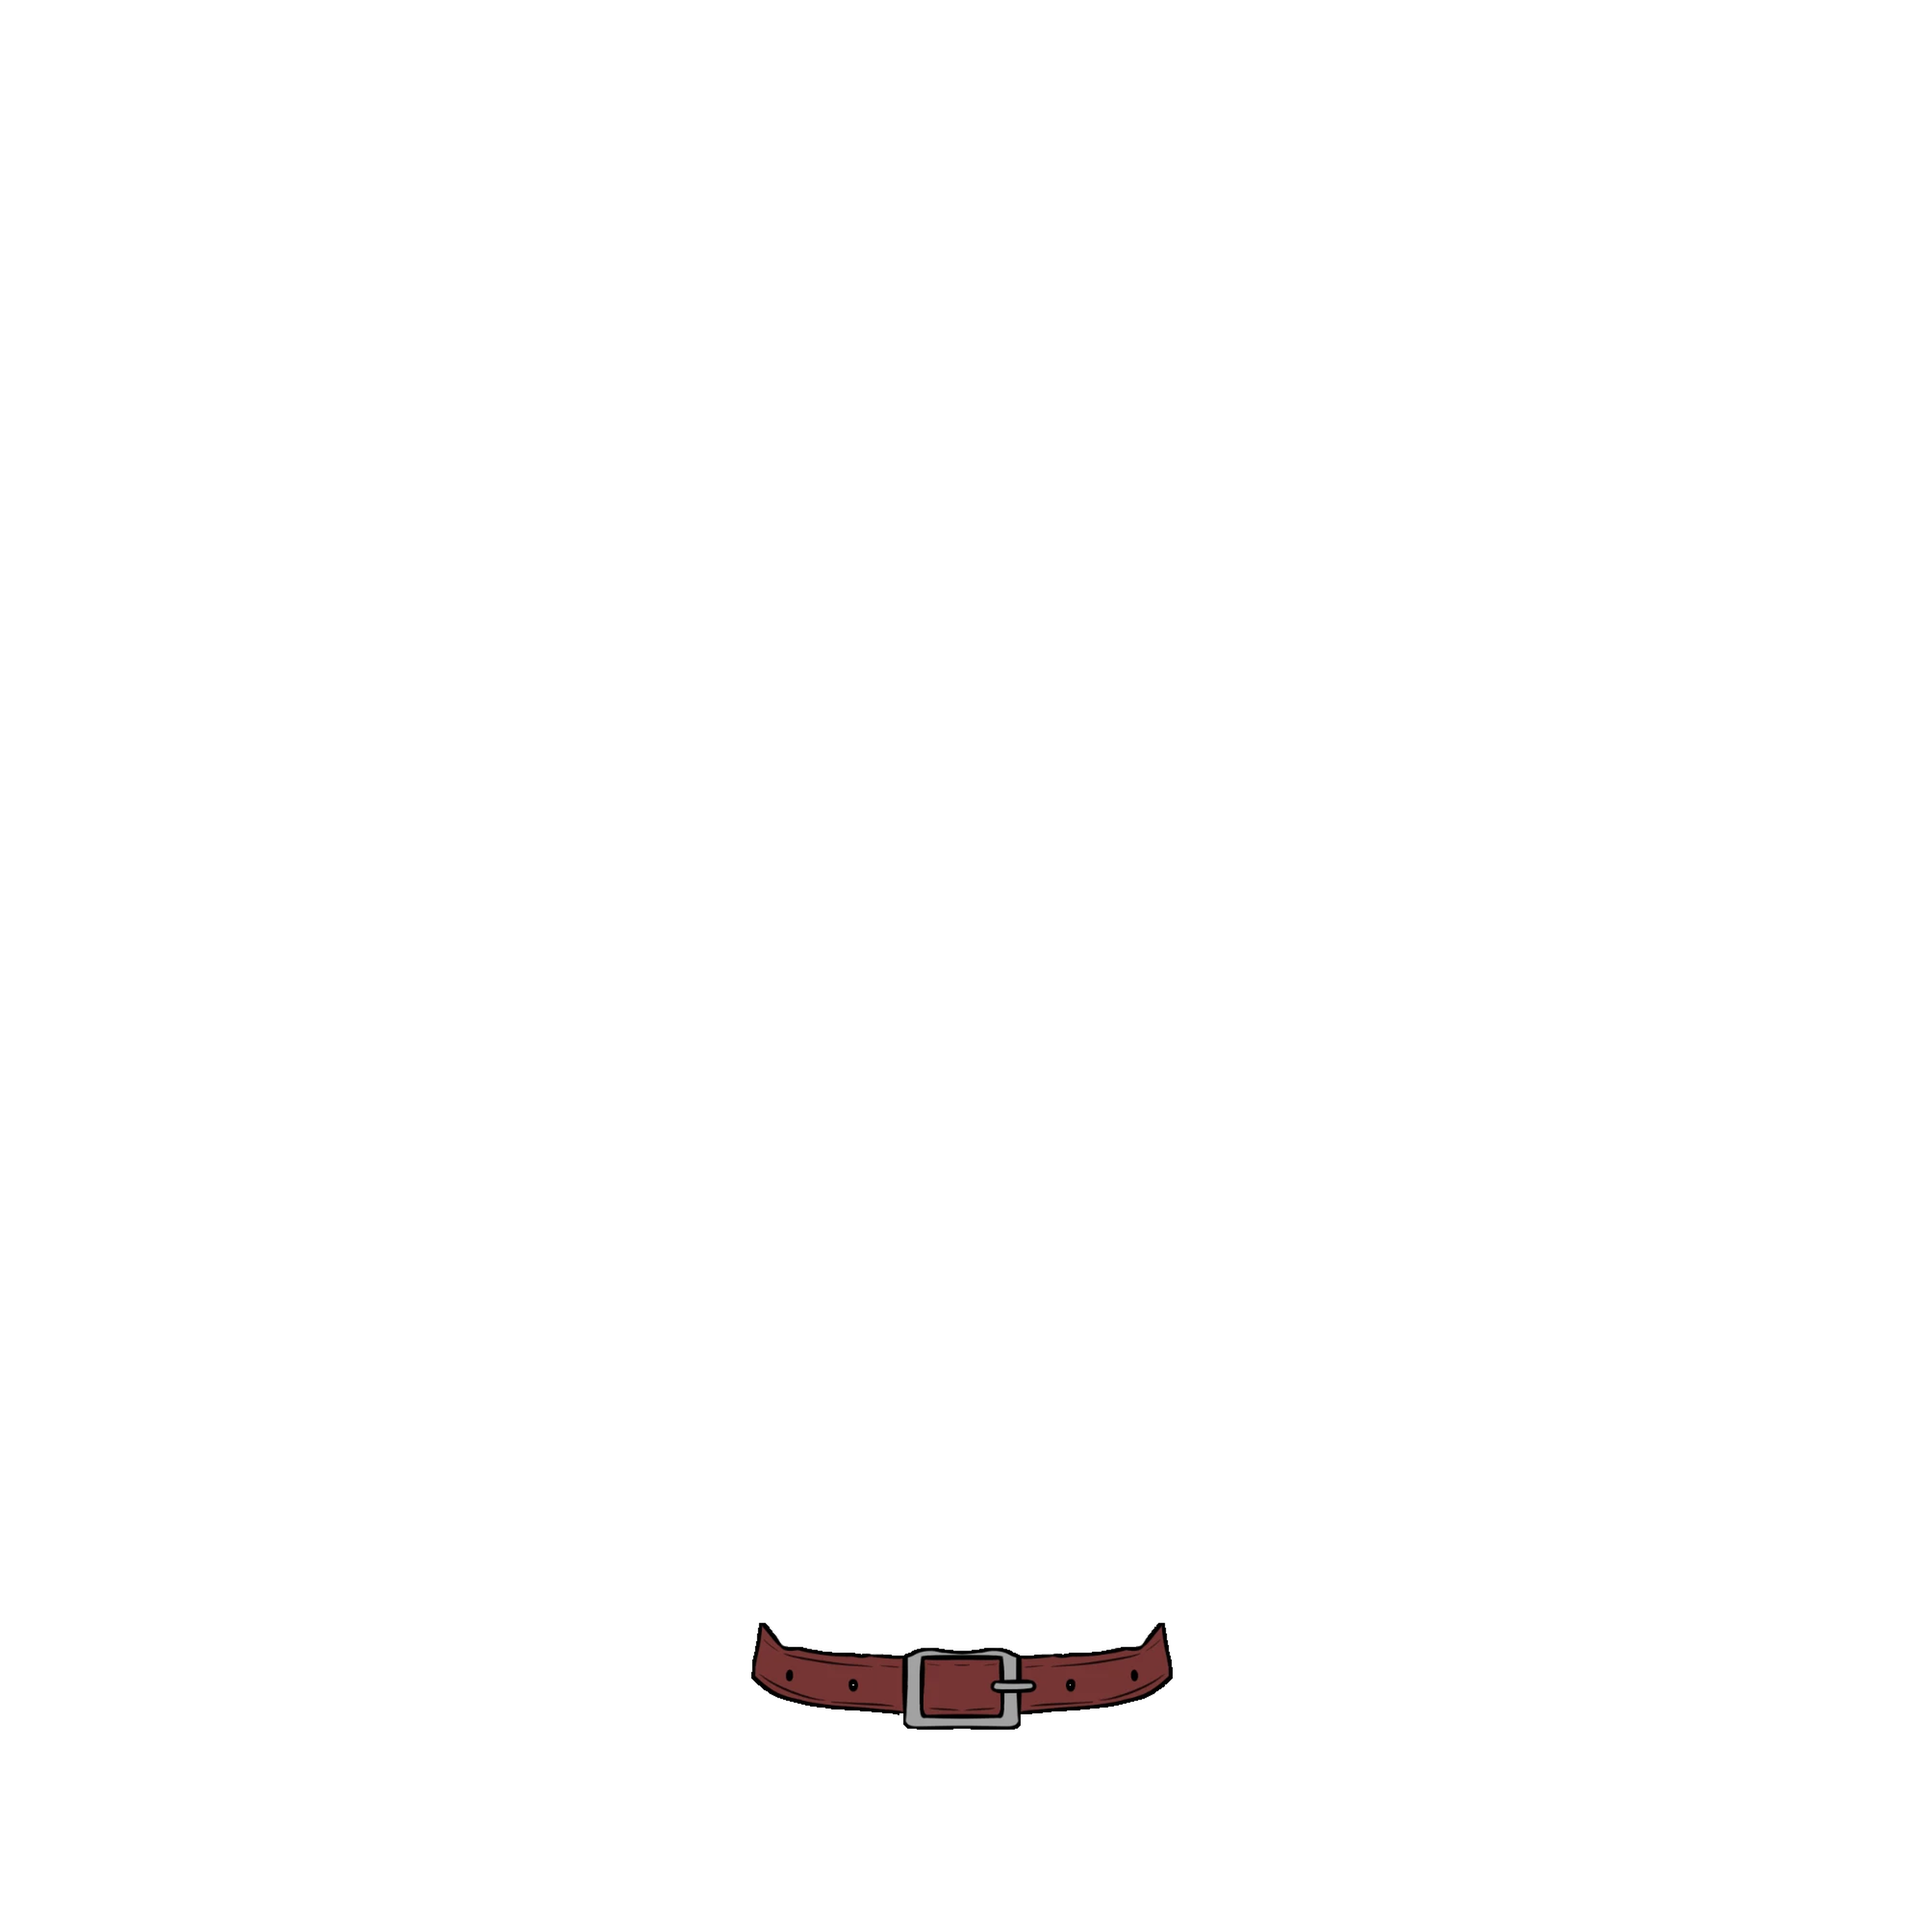
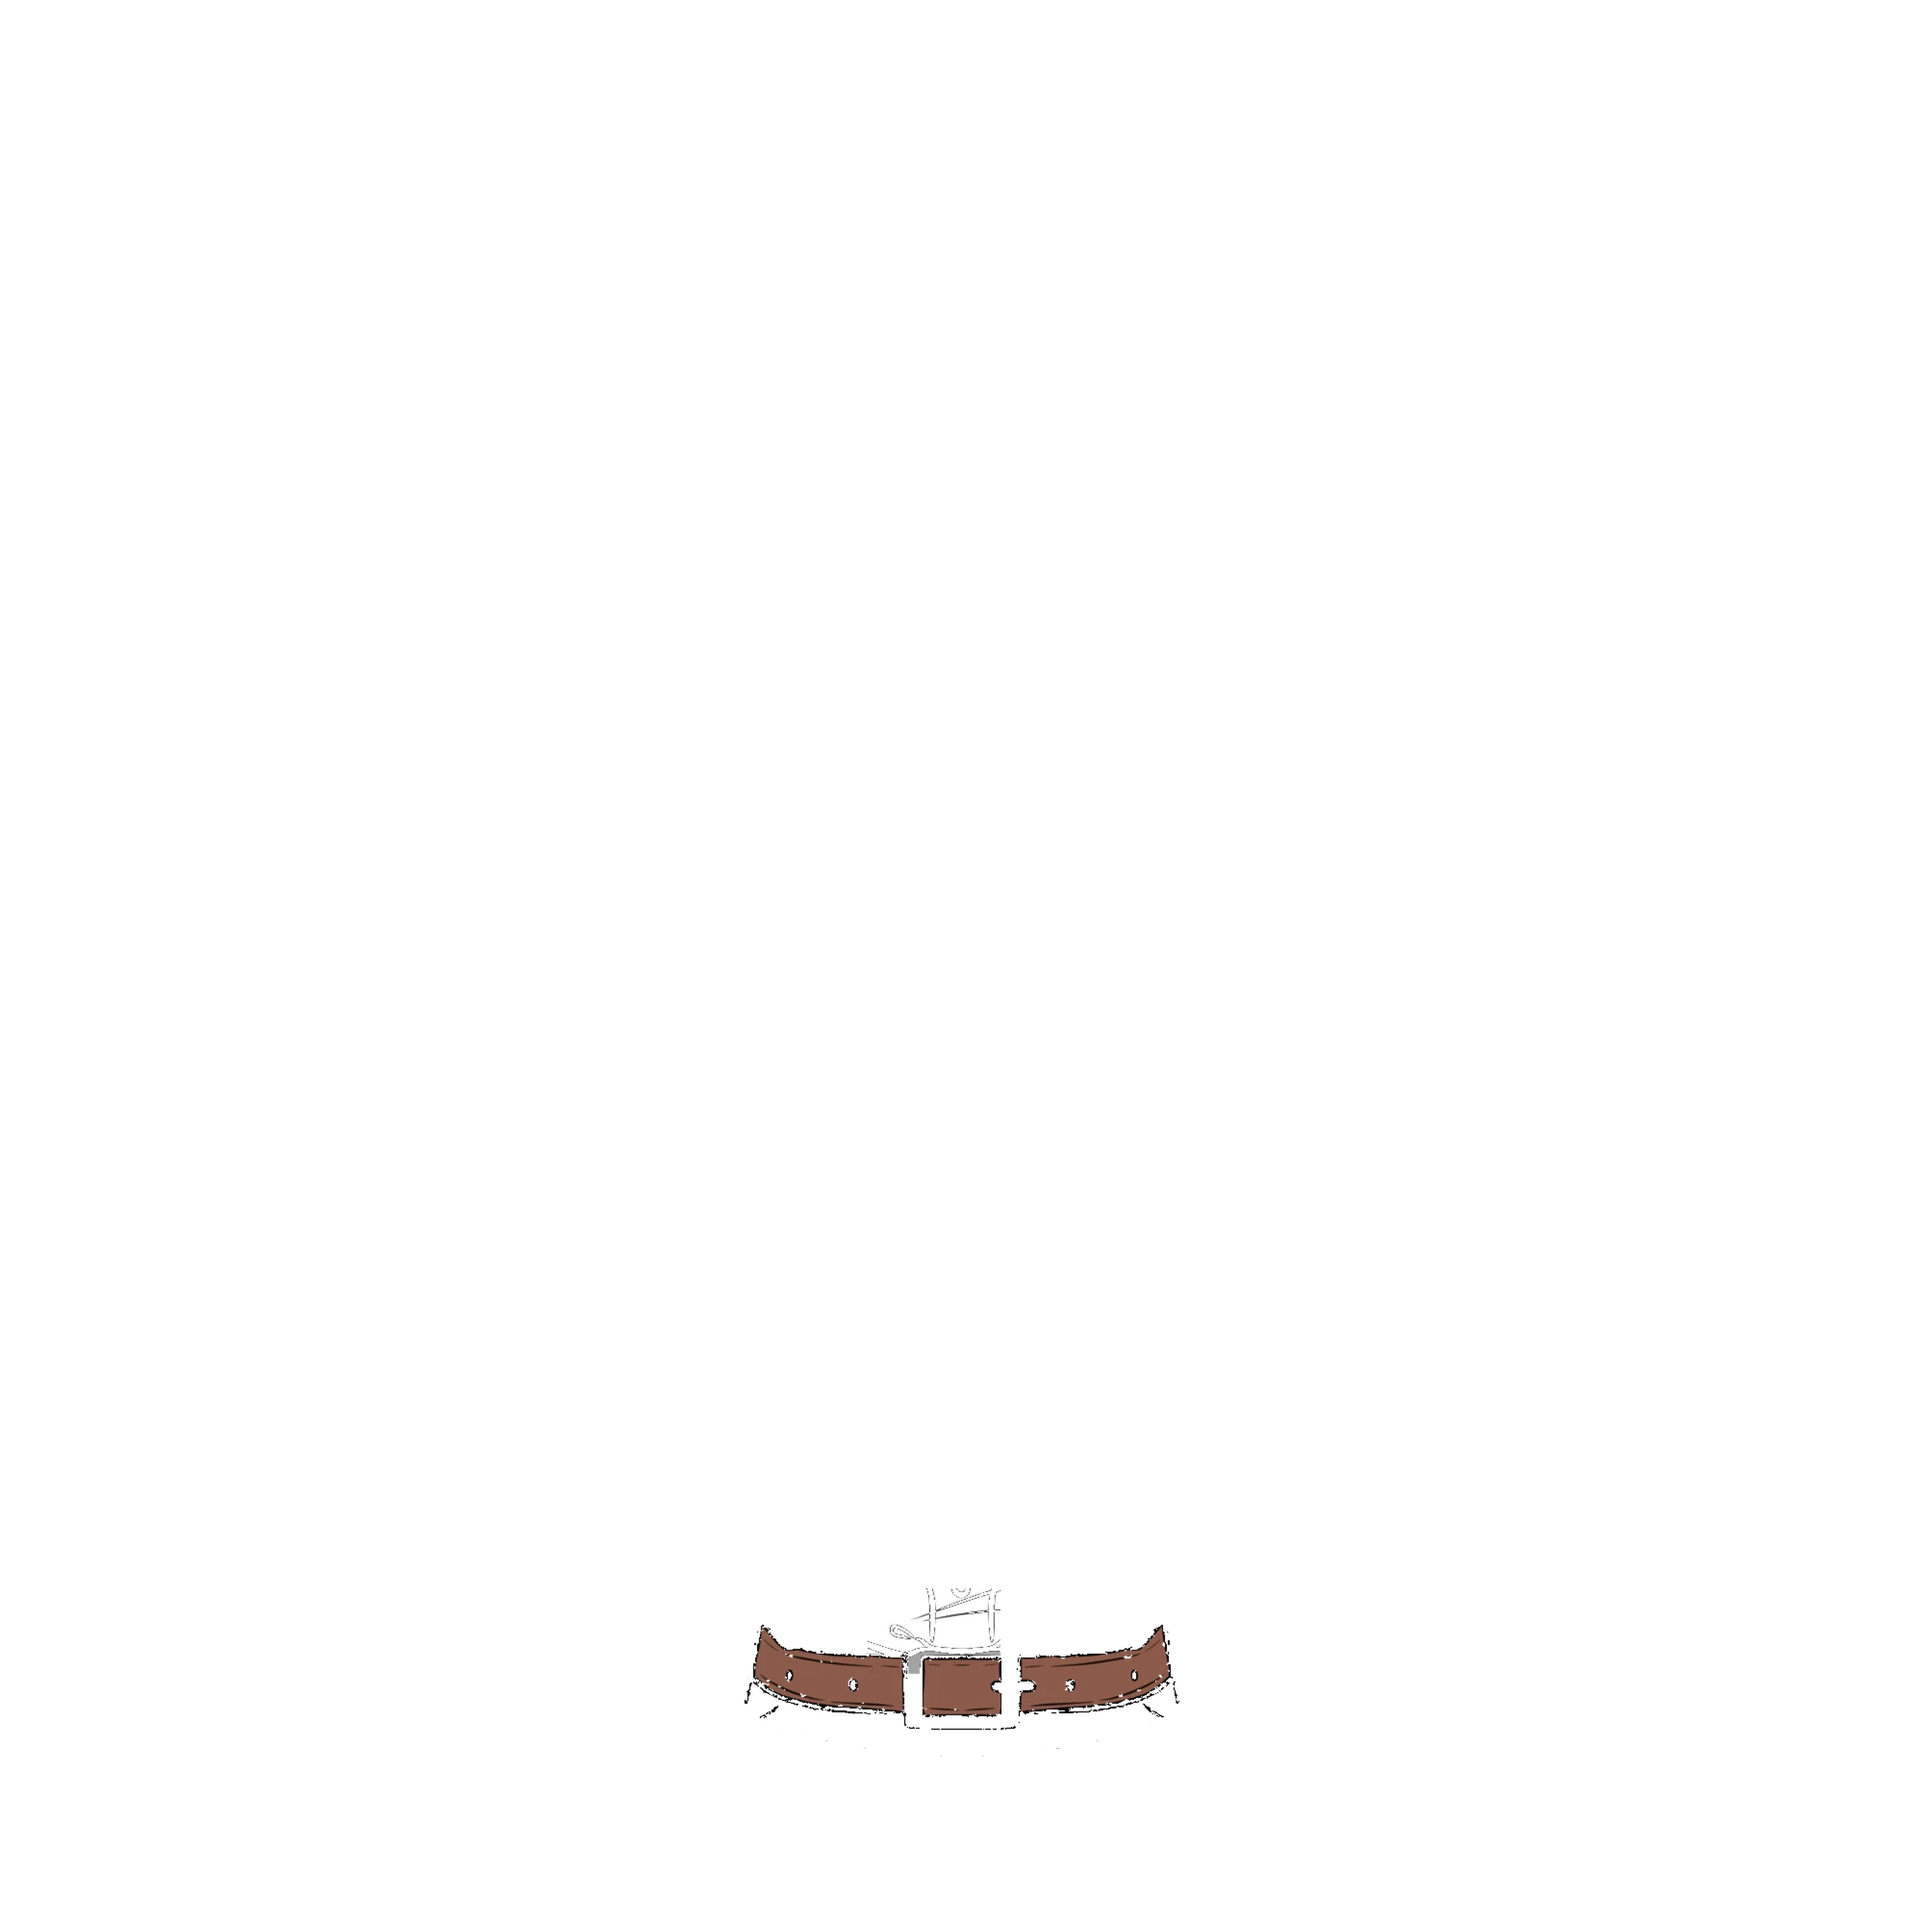
Uniform: re-split shirt 8 (shirt/belt/bottom) from the new file, pair 1 bottom colour #97775B
Claude-Session: https://claude.ai/code/session_01JxhAmBCihC7XkYoSZQm6KV

Changed region(s): [[0.3744, 0.8424, 0.624, 0.9048]]

diff --git a/index.html b/index.html
@@ -1051,7 +1051,7 @@ var SPECIAL_REPLACES = ['hair','back_hair','eyes','mouth'];
    ไฟล์ภาพมีแค่ shirt_8.png + shirt_8_belt.png + shirt_8_bottom.png (วาดสีเดียว สีพื้นอิ่มตัวกลาง ๆ — ดูหัวข้อสีใน README)
    pairs = [สีเข็มขัด, สีกางเกง, ชื่อ] · ค่าเริ่มต้น = แถวที่ 2 (DEFAULT_SEL.uniPair) */
 var UNIFORM = {shirt:8,
-  pairs:[['#8C5A4B','#945747','น้ำตาล / น้ำตาล'],['#8C5A4B','#1C1F8C','น้ำตาล / กรม'],['#181818','#1C1F8C','ดำ / กรม'],['#181818','#181818','ดำ / ดำ']]};
+  pairs:[['#8C5A4B','#97775B','น้ำตาล / น้ำตาลอ่อน'],['#8C5A4B','#1C1F8C','น้ำตาล / กรม'],['#181818','#1C1F8C','ดำ / กรม'],['#181818','#181818','ดำ / ดำ']]};
 /* สีให้เลือก — [โค้ดสี, ชื่อ]  ปุ่ม ↺ = สีเดิมของภาพ (ค่าเริ่มต้น) */
 var PALETTE = [['#f7d794','เหลืองพาสเทล'],['#f8a5c2','ชมพู'],['#c7ace4','ม่วงพาสเทล'],['#778beb','น้ำเงินพาสเทล'],['#b8e994','เขียวพาสเทล'],['#e55039','แดงส้ม'],
                ['#5dade2','ฟ้า'],['#f0a500','ส้มทอง'],['#ffffff','ขาว'],['#555555','เทาเข้ม'],['#3b2a24','น้ำตาลเข้ม'],['#c23b3b','แดง']];
